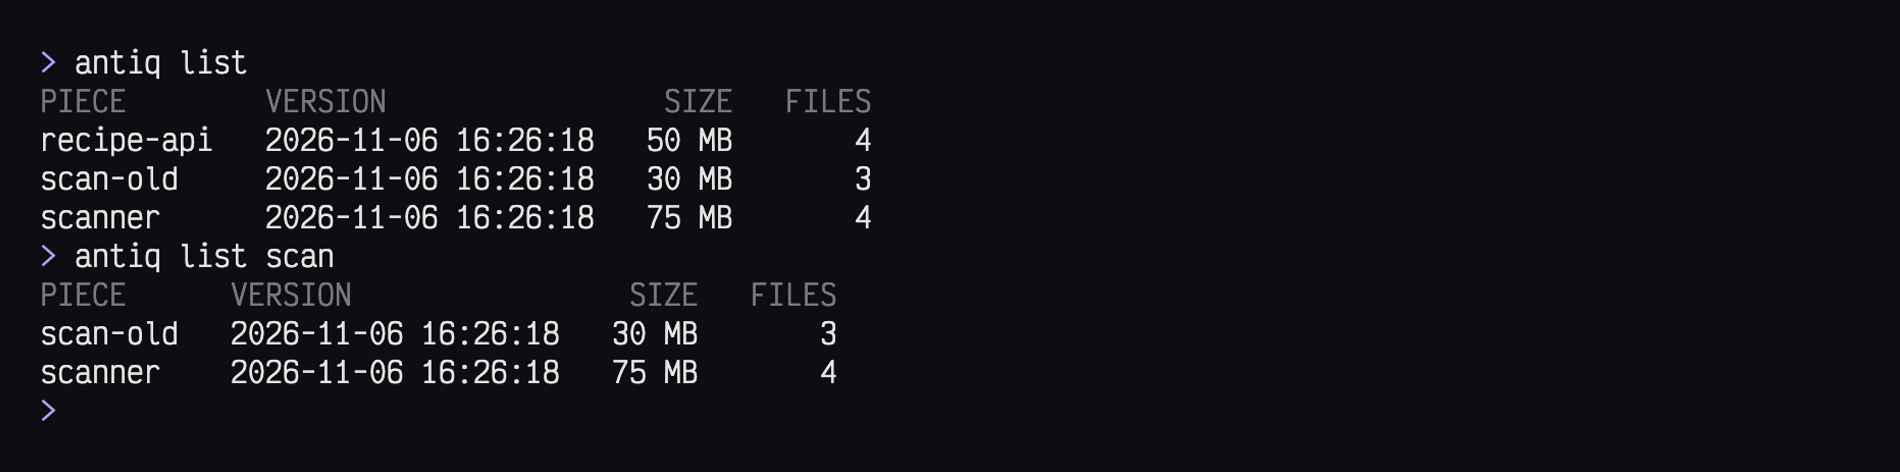
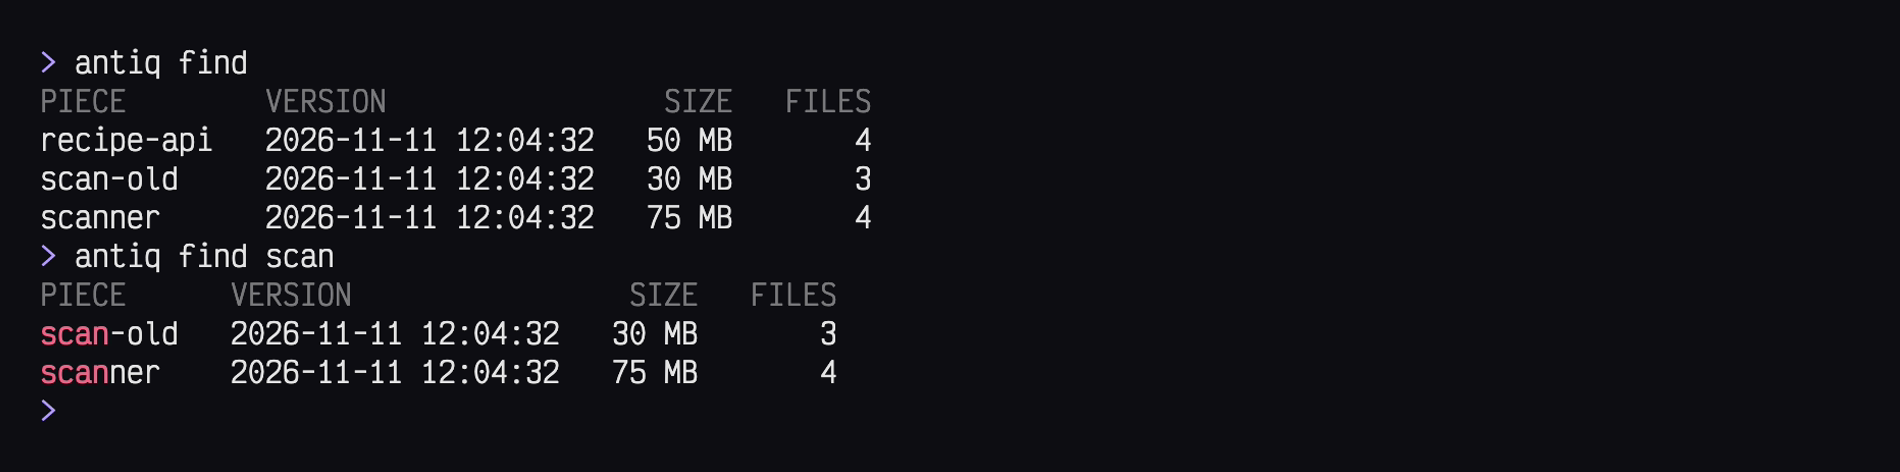
Render the images of find with the marked letters

diff --git a/README.md b/README.md
@@ -222,7 +222,7 @@ antiq find
 antiq find scan
 ```
 
-![antiq find shows the archived pieces recipe-api, scan-old and scanner with their versions, then antiq find scan shows only scan-old and scanner](docs/pages/assets/shots/find.png)
+![antiq find shows the archived pieces recipe-api, scan-old and scanner with their versions, then antiq find scan shows only scan-old and scanner with the letters of scan in red](docs/pages/assets/shots/find.png)
 *`find` shows the whole archive, a search word narrows it*
 
 ### Searching inside the archives
@@ -286,7 +286,7 @@ antiq archive scanner
 antiq find scanner
 ```
 
-![antiq find scanner shows two versions of scanner](docs/pages/assets/shots/versions.png)
+![antiq find scanner shows two versions of scanner with the name in red](docs/pages/assets/shots/versions.png)
 *the two versions of `scanner`*
 
 > [!TIP]
@@ -320,7 +320,7 @@ antiq import ~/old-disk/pixel-clock
 antiq find pixel-clock
 ```
 
-![antiq import packs pixel-clock as a version from March 2025, and antiq find pixel-clock shows that version](docs/pages/assets/shots/import.png)
+![antiq import packs pixel-clock as a version from March 2025, and antiq find pixel-clock shows that version with the name in red](docs/pages/assets/shots/import.png)
 *`import` names the version by the newest file, here from March 2025*
 
 The piece takes the folder's name, or the path given with `--as`, such as

diff --git a/CHANGELOG.md b/CHANGELOG.md
@@ -14,7 +14,7 @@ and this project adheres to [Semantic Versioning](https://semver.org/spec/v2.0.0
   not show. The `--json` envelope carries `"command": "find"` instead of
   `"command": "list"`, also for a run through `list`, so a script that
   checks for `list` has to change
-- `list` marks the letters of each piece path that the query matched in
+- `find` marks the letters of each piece path that the query matched in
   bold red on a terminal with colour. The output without colour, in a
   pipe and with `--json` is unchanged
 
